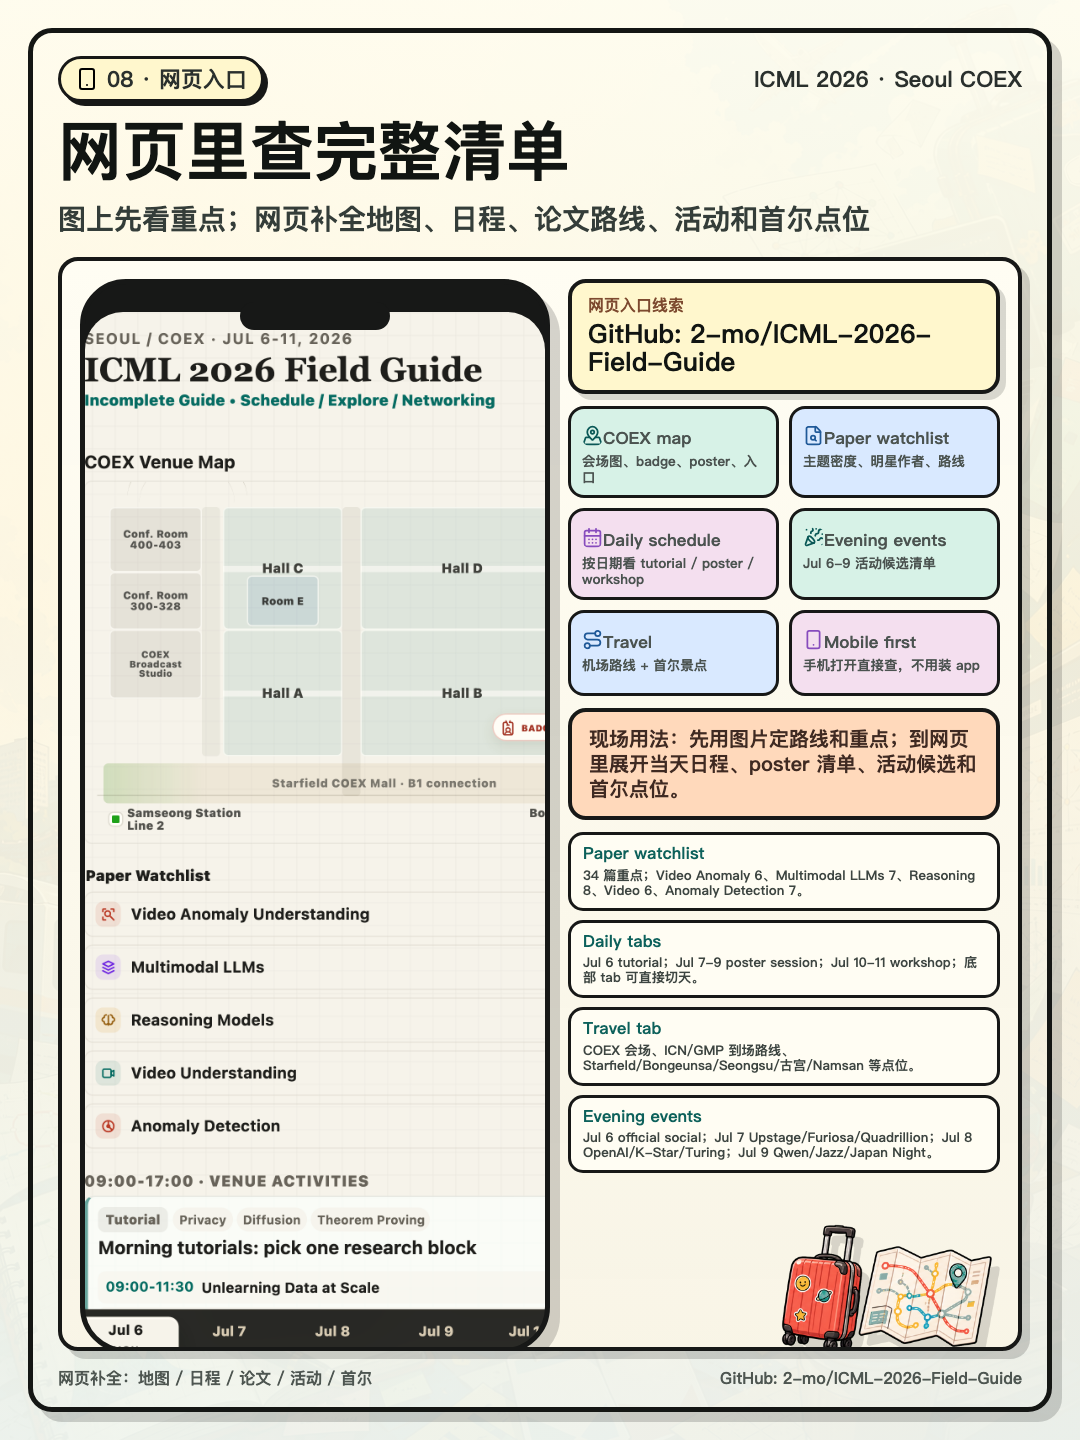
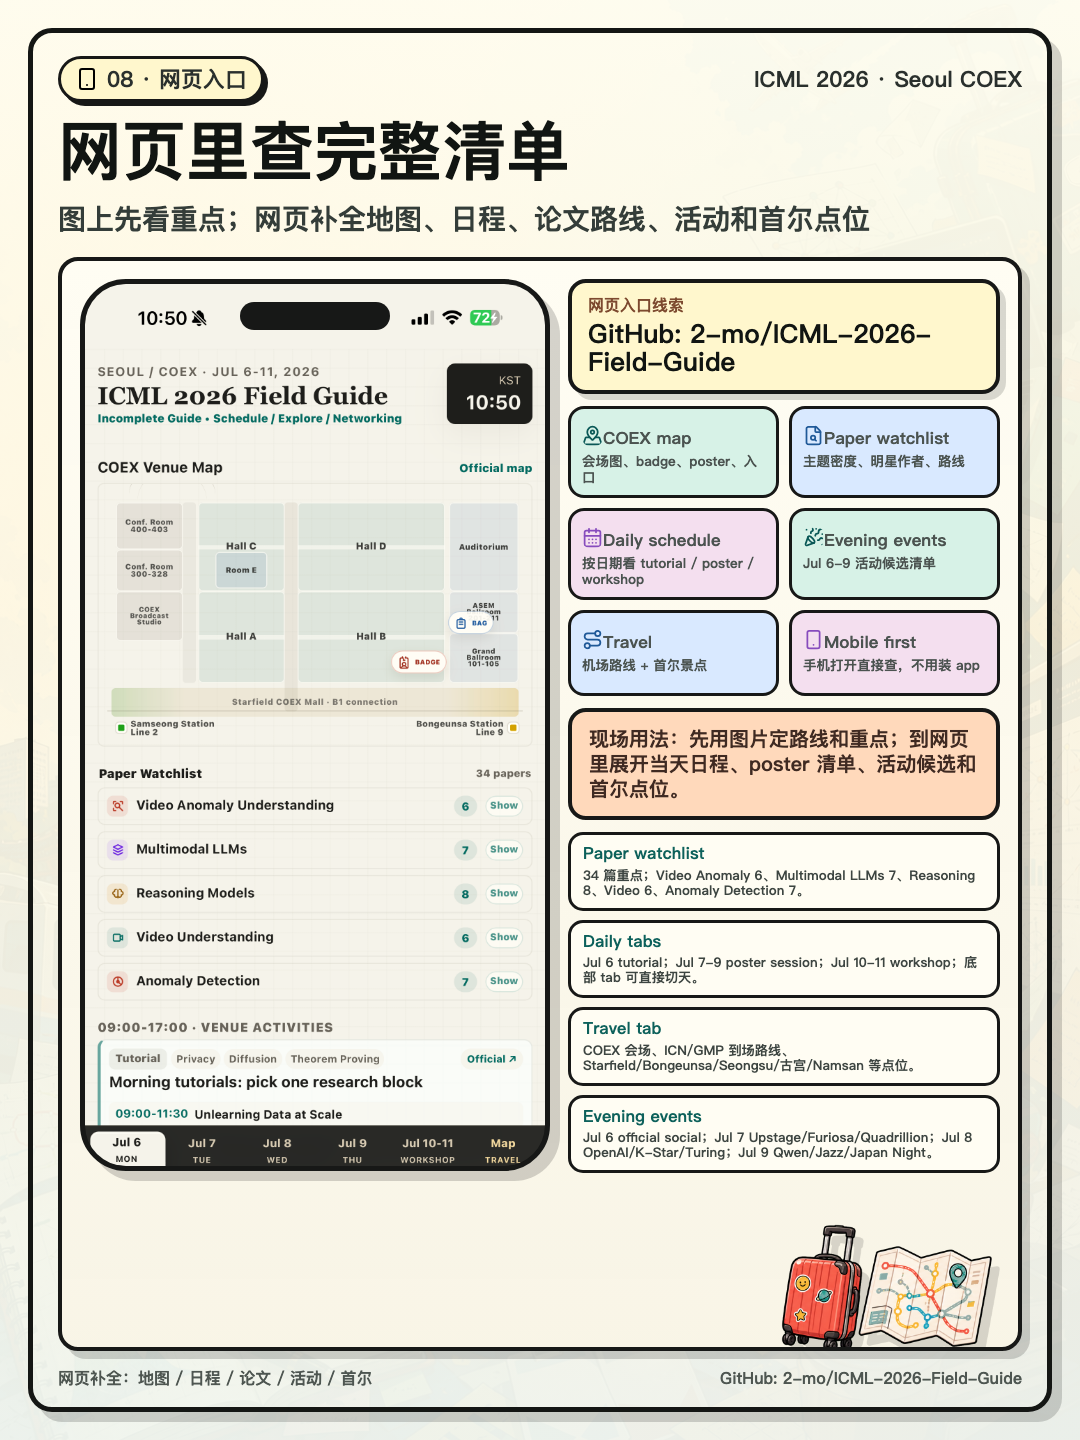
Use cropped no-url screenshot for promo card

Changed region(s): [[0.0611, 0.1875, 0.5194, 0.9375], [0.1833, 0.375, 0.3056, 0.4375], [0.4278, 0.7188, 0.4583, 0.75]]

diff --git a/output/xiaohongshu_v3/render/render.html b/output/xiaohongshu_v3/render/render.html
@@ -1161,8 +1161,7 @@
 
       .phone-frame {
         position: relative;
-        align-self: stretch;
-        min-height: 1010px;
+        align-self: start;
         border: 5px solid #171817;
         border-radius: 46px;
         background: #171817;
@@ -1184,14 +1183,11 @@
       }
 
       .phone-frame img {
+        display: block;
         width: 100%;
-        height: 100%;
-        object-fit: cover;
-        object-position: center top;
+        height: auto;
         border-radius: 38px;
         filter: saturate(1.04) contrast(1.02);
-        transform: translateY(28px);
-        transform-origin: top left;
       }
 
       .promo-copy {
@@ -2076,7 +2072,7 @@
             ${header("08 · 网页入口", "网页里查完整清单", "图上先看重点；网页补全地图、日程、论文路线、活动和首尔点位", "smartphone")}
             <div class="board promo-board">
               <div class="phone-frame">
-                <img src="../screenshots/mobile-homepage-clean.png" alt="ICML 2026 Field Guide mobile screenshot" />
+                <img src="../screenshots/mobile-homepage-no-url.png" alt="ICML 2026 Field Guide mobile screenshot" />
               </div>
               <div class="promo-copy">
                 <div class="search-ticket">